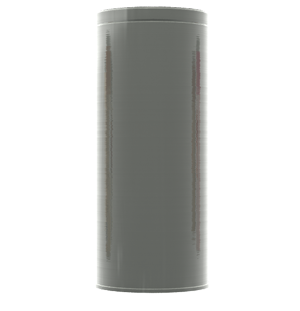
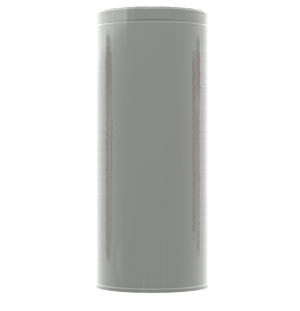
changed products image size and now showing custom blends on tin

Changed region(s): [[0.33, 0.0, 0.69, 0.955]]

diff --git a/app/assets/stylesheets/store/custom.css b/app/assets/stylesheets/store/custom.css
@@ -109,6 +109,16 @@ footer#footer {
 	width: 100%;
 }
 
+ul#products li a.info{
+	border: none;
+	color: #444;
+	font-size: 13px;
+}
+
+#product-description .product-title {
+	border: none;
+}
+
 input[type="text"], input[type="file"] {
 	border: 1px solid #BBB;
 	background: white;

diff --git a/app/helpers/spree/base_helper_decorator.rb b/app/helpers/spree/base_helper_decorator.rb
@@ -8,12 +8,20 @@ Spree::BaseHelper.class_eval do
   
   def small_image(product, options={})
     if product.images.empty?
-      image_tag "/assets/TeaTin-small.png", options
+      image_tag "/assets/TeaTinWithLabel.png", :size => "182x190"
     else
       image_tag product.images.first.attachment.url(:small), options
     end
   end
 
+  def xmini_tea_tin_image (product)
+    if product.images.empty?
+      image_tag "/assets/CustomTeaLabel.png", :size => "60x136"
+    else
+      image_tag product.images.first.attachment.url(:original), :size => "60x136"
+    end
+  end
+  
   def mini_tea_tin_image (product)
     if product.images.empty?
       image_tag "/assets/CustomTeaLabel.png", :size => "82x186"
@@ -38,6 +46,14 @@ Spree::BaseHelper.class_eval do
     end
   end
 
+  def xmini_tea_tag_image (product)
+    if product.images[1] == nil
+      image_tag "/assets/TeaTagLabel.png", :size => "37x31"
+    else
+      image_tag product.images[1].attachment.url(:small), :size => "37x31"
+    end
+  end
+  
   def button(text, icon_name = nil, button_type = 'submit', options={})
     button_tag(content_tag('span', icon(icon_name) + ' ' + text), options.merge(:type => button_type))
   end

diff --git a/app/controllers/spree/users_controller_decorator.rb b/app/controllers/spree/users_controller_decorator.rb
@@ -2,12 +2,12 @@ Spree::UsersController.class_eval do
   def show
     @user ||= current_user
     logger.debug "*** user  #{@user.email}"
-    @myblends = Kaminari.paginate_array(@user.myproducts).page(params[:page]).per(15) 
+    @myblends = Kaminari.paginate_array(@user.myproducts).page(params[:page]).per(Spree::Config.products_per_page) 
   end
   
   def myblends
     @user ||= current_user
     logger.debug "*** user  #{@user.email}"
-    @myblends = Kaminari.paginate_array(@user.myproducts).page(params[:page]).per(15) 
+    @myblends = Kaminari.paginate_array(@user.myproducts).page(params[:page]).per(Spree::Config.products_per_page) 
   end
 end

diff --git a/config/initializers/spree.rb b/config/initializers/spree.rb
@@ -9,7 +9,6 @@ Spree.config do |config|
 # Example:
 # Uncomment to override the default site name.
   config.site_name = "Uniq Teas"
-  config.products_per_page = 15
 
   Spree::ActiveShipping::Config.set(:ups_login => "caraway tea")
   Spree::ActiveShipping::Config.set(:ups_password => "B4radhur")
